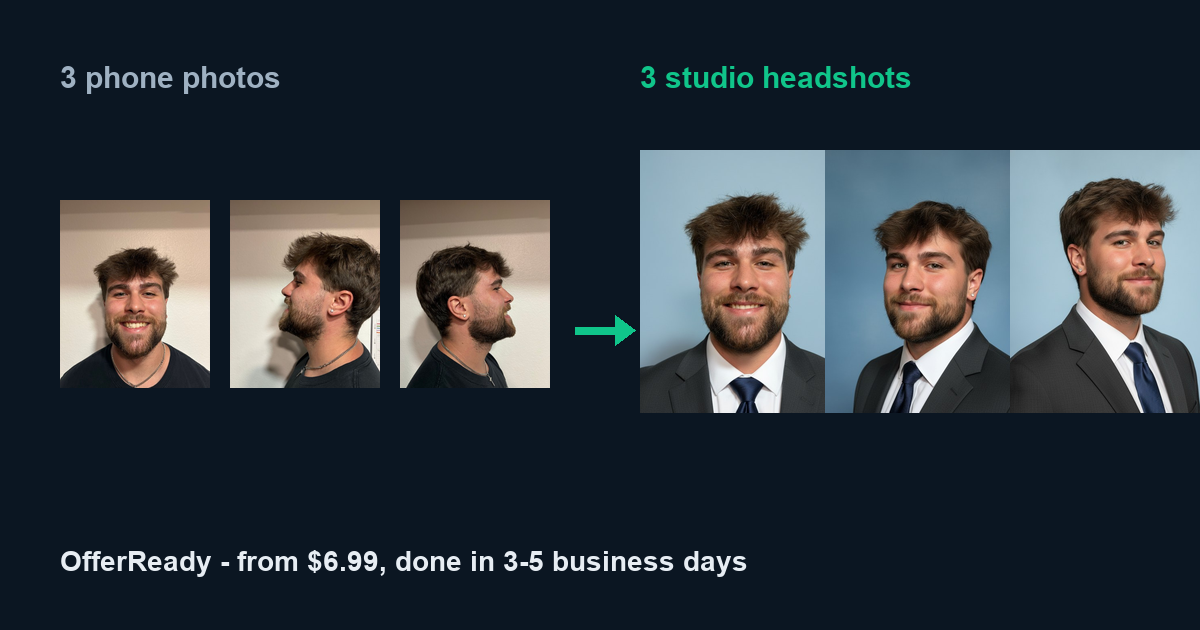
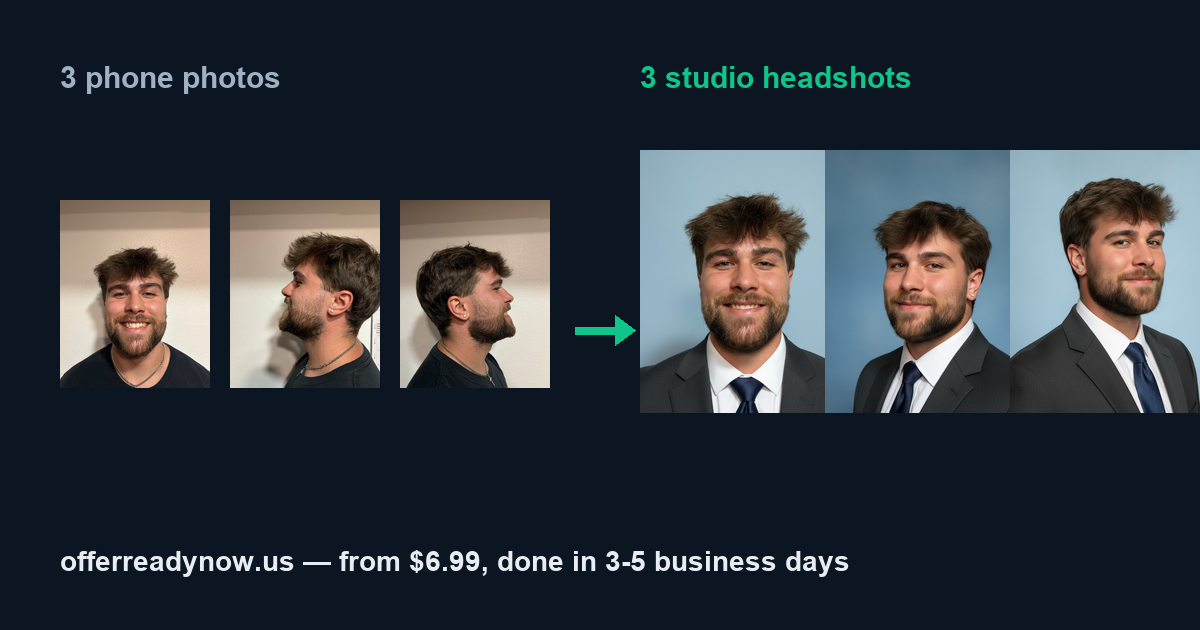
domain: offerreadynow.us URLs (og/canonical, demo link, kit copy, FAQ)

Changed region(s): [[0.0308, 0.8746, 0.7092, 0.9349]]

diff --git a/index.html b/index.html
@@ -7,11 +7,11 @@
   <meta name="description" content="Send 3 phone photos, get 3 brand-new studio headshots — plus an ATS résumé, LinkedIn overhaul, and a hosted portfolio site. Done for you in 3–5 business days, from $6.99." />
   <meta property="og:title" content="OfferReady — 3 phone photos in. 3 studio headshots out." />
   <meta property="og:description" content="AI-built headshots, résumé, LinkedIn & portfolio in 3–5 business days. From $6.99." />
-  <meta property="og:image" content="https://cjcamp16.github.io/offerready/assets/proof/og_card.png" />
-  <meta property="og:url" content="https://cjcamp16.github.io/offerready/" />
+  <meta property="og:image" content="https://offerreadynow.us/assets/proof/og_card.png" />
+  <meta property="og:url" content="https://offerreadynow.us/" />
   <meta property="og:type" content="website" />
   <meta name="twitter:card" content="summary_large_image" />
-  <meta name="twitter:image" content="https://cjcamp16.github.io/offerready/assets/proof/og_card.png" />
+  <meta name="twitter:image" content="https://offerreadynow.us/assets/proof/og_card.png" />
   <link rel="icon" type="image/png" href="assets/favicon.png" />
   <link rel="stylesheet" href="style.css" />
 </head>
@@ -135,11 +135,11 @@
           <div class="price">$19.99</div>
           <ul>
             <li>Everything in Profile</li>
-            <li>A hosted 1-page portfolio website — <strong>at a web address you choose</strong>, renameable anytime</li>
+            <li>Your own website — <strong>your-name.offerreadynow.us</strong>, renameable anytime</li>
             <li>A tailored LinkedIn announcement post</li>
           </ul>
           <a href="mailto:colejcampbell1738@gmail.com?subject=OfferReady%20Full%20Launch%20Kit%20(%2419.99)" class="btn btn-tier" data-tier="kit">Get the full kit</a>
-          <p class="addon"><a href="https://cjcamp16.github.io/offerready/clients/cole-campbell/" target="_blank" rel="noopener">See a real Launch Kit site →</a></p>
+          <p class="addon"><a href="https://cole-campbell.offerreadynow.us/" target="_blank" rel="noopener">See a real Launch Kit site →</a></p>
         </div>
 
       </div>
@@ -176,7 +176,7 @@
         <details><summary>How fast is it?</summary><p>3–5 business days from when you submit the form. Need it sooner? Rush delivery (1–3 business days) is +$5.</p></details>
         <details><summary>What if I don't love it?</summary><p>You get one free revision round within 7 days — reply to the delivery email and tell us what to change. If we genuinely can't get a headshot you're happy with, we'll refund the headshot.</p></details>
         <details><summary>Can I pick how everything looks?</summary><p>Yes. The form lets you choose attire (suit, dress, or business casual), headshot background, a color theme, and overall style — and that one choice is applied consistently across your headshots, résumé, LinkedIn assets, and portfolio site.</p></details>
-        <details><summary>Do I get to pick my website's address?</summary><p>Yes — Full Launch Kit sites live at a web address you choose (like <code>/jane-smith</code>), and you can rename it anytime after delivery, free.</p></details>
+        <details><summary>Do I get to pick my website's address?</summary><p>Yes — Full Launch Kit sites live at their own address, like <code>jane-smith.offerreadynow.us</code>. Pick the name in the form, and rename it anytime after delivery, free.</p></details>
         <details><summary>Is my photo private?</summary><p>Yes. Your photos are used only to make your order, never shared or sold, and deleted on request after delivery.</p></details>
         <details><summary>Can you do my whole fraternity / club?</summary><p>Yes — that's the $5.99/person group rate (15+ people, headshots). Each member fills out their own quick form with their own photos and preferences. Message us and we'll set it up.</p></details>
       </div>
